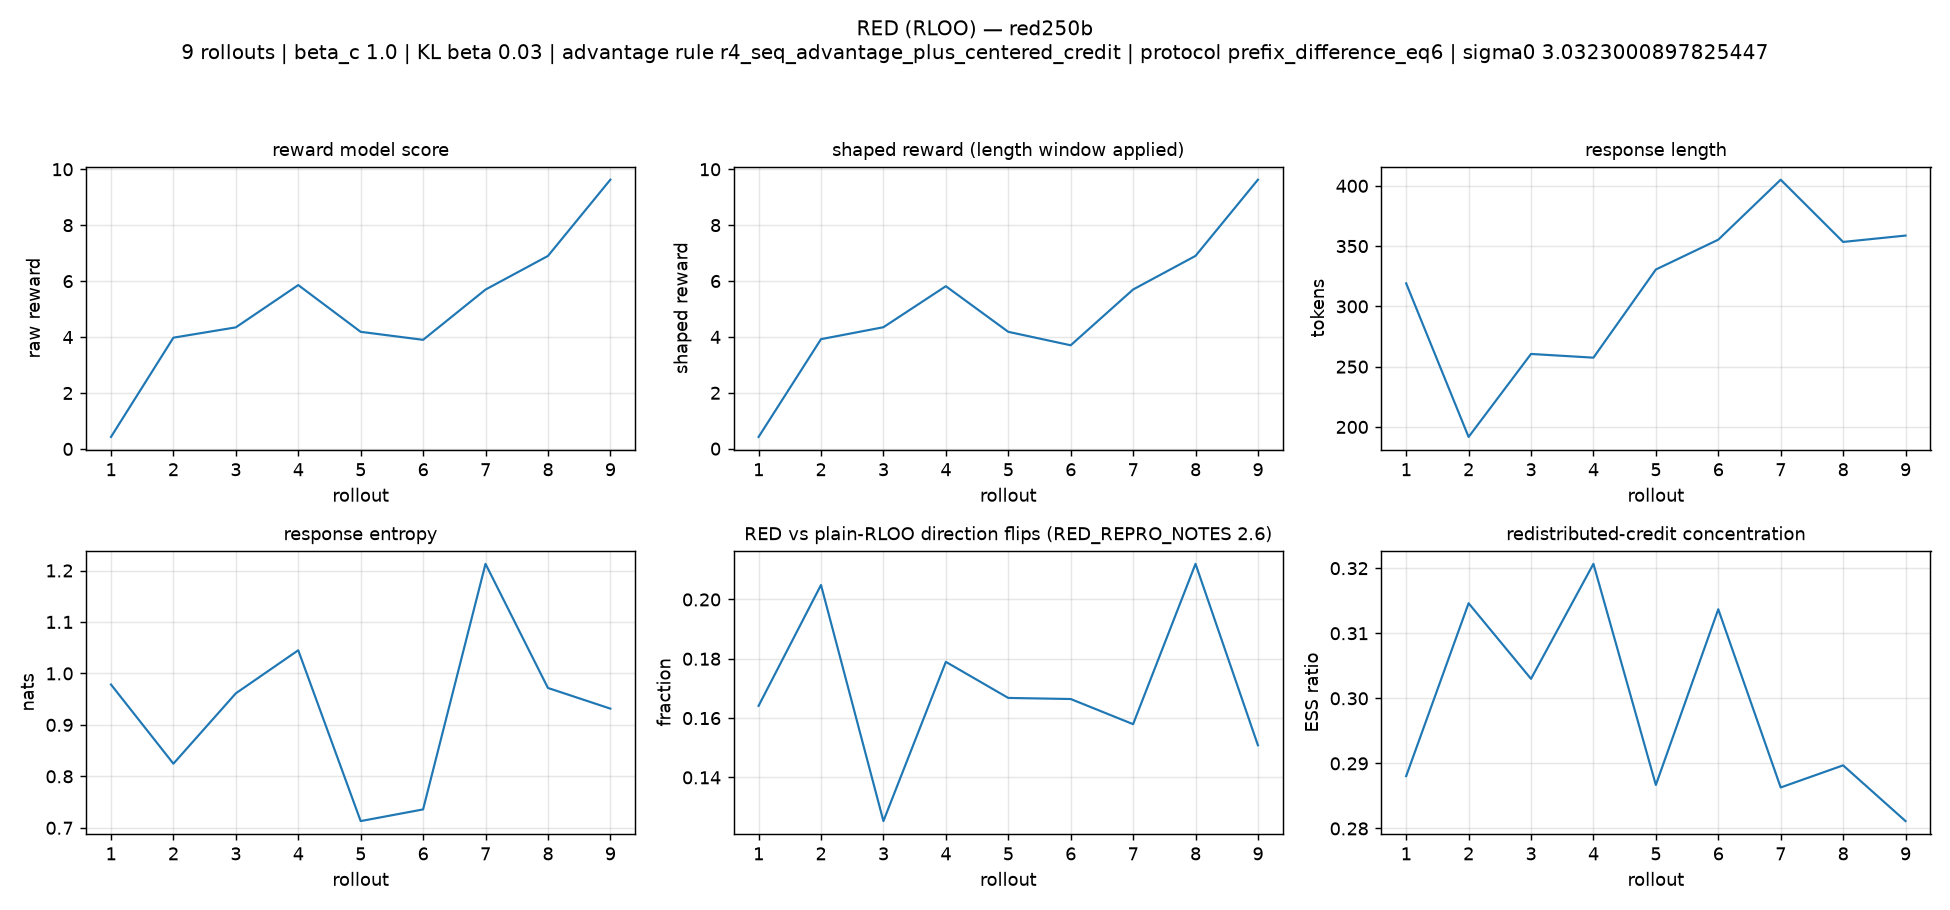
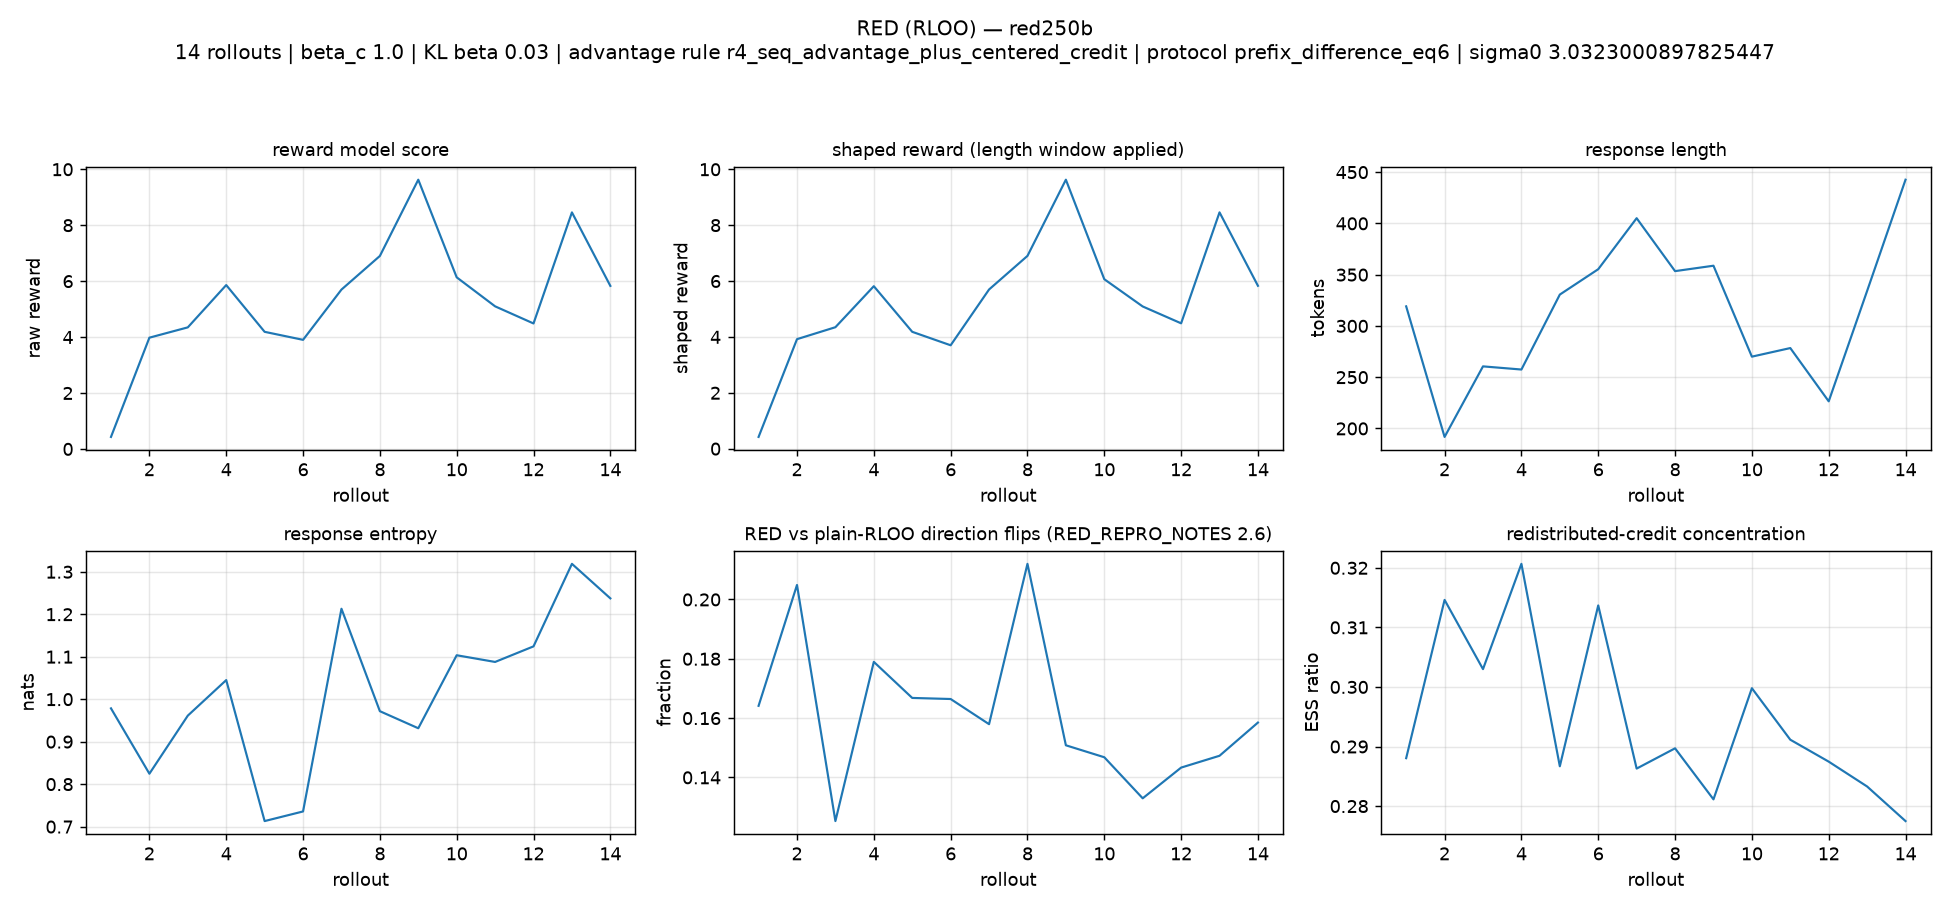
red step 15: raw reward 4.587
loss -0.18598487379495054, grad_norm 0.7734984755516052, mean response tokens 389.0625

diff --git a/p2t/README.md b/p2t/README.md
@@ -78,3 +78,65 @@ reports how large the token term is relative to the sequence advantage.
 See [P2T_REPRO_NOTES.md](P2T_REPRO_NOTES.md) for the equation-to-code map, the
 three places where the paper contradicts itself, and what was deliberately left
 unfixed.
+
+## Evaluation
+
+The four paper metrics for this arm are produced by the **`niuniu` evaluation
+workflow**, which is a separate branch of the VPO-RM repository. It is *not* the
+`runs/*-canonical-20260917` suites checked in here, and the two must not be mixed
+— see "Why not the old suites" below.
+
+- **Where**: branch `niuniu`, pinned revision `c8abb02` ("Support two-GPU credit
+  ablations and publish four-metric evaluation workflow"), checked out at
+  `../niuniu-ref`. Its `docs/evaluation.md` is the authority for the protocol;
+  do not restate it from memory.
+- **What it produces**, one `metric_summary.json` per metric:
+
+  | metric | reported field | protocol |
+  |---|---|---|
+  | RM-Reward | `mean` | frozen 256 UltraFeedback prompts, seed 42, T=1, top_p=1, 2048 tokens; raw Skywork scalar, **no** length or KL penalty |
+  | AlpacaEval | `weighted_win_rate_pct` | 805 prompts, GPT-4.1 judge against GPT-4 Turbo references; **not** official length-controlled |
+  | IFEval | `project_four_metric_mean_pct` | 541 prompts / 834 instructions, generation seeds 42–46, official checker at seed 42 |
+  | Arena-Hard | `arena_hard_style_pct` | 750 questions (500 hard + 250 creative), GPT-4o judge against the `gpt-4o-mini-2024-07-18` reference |
+
+**Why not the old suites.** They are a different protocol, not an earlier version
+of this one: their Arena-Hard run uses **500 hard prompts only**, an
+`o3-mini-2025-01-31` reference and a **GPT-4.1** judge, i.e. three of the four
+inputs differ from the workflow above, and their repeated-seed counts differ too.
+Their centres therefore are not comparable with the numbers this workflow
+produces, and `docs/evaluation.md` §6 warns against presenting new-protocol
+results as a reproduction of them. This arm has **never** been evaluated, so it
+has no old-protocol number to be confused with in the first place.
+
+**Run it** (`../niuniu-ref/LOCAL-DEVIATION-L20.md` records the two environment
+adaptations this host needs, including why `VLLM_USE_FLASHINFER_SAMPLER=0` is
+required — without it the engine cannot start on this box's CUDA 12.2):
+
+```bash
+cd ../niuniu-ref
+source ../baseline/.venv/bin/activate
+export CUDA_VISIBLE_DEVICES=0,1            # two free cards; the RM takes the second
+export VLLM_USE_FLASHINFER_SAMPLER=0
+python scripts/run_benchmarks.py --config configs/evaluation/qwen3-14b-base.json \
+  --stage generate --metric all \
+  --model "$PWD/models/Qwen3-14B-Base" --tokenizer "$PWD/models/Qwen3-14B-Base" \
+  --rm "$PWD/models/Skywork-Reward-V2-Qwen3-8B" \
+  --tag p2t --adapter "$PWD/runs/p2t250/checkpoint-250" \
+  --output "$PWD/runs/eval-qwen3-14b-base"
+# then --stage judge (paid; --budget-cny is per judge invocation, not a total),
+# then --stage score, which is what writes the metric_summary.json files
+```
+
+The run records what it actually did: each metric writes a `manifest_*.json`
+holding the sampling recipe, seed, dataset path and that dataset's SHA256, and
+the output root holds the resolved `benchmark_config.json`. Check those rather
+than trusting a label.
+
+**Arena-Hard's style control is fitted across the candidate set**, so a single
+model summarised alone is distorted. Once the sibling arms have generations too,
+summarise them together:
+
+```bash
+python scripts/summarize_benchmarks.py --config configs/evaluation/qwen3-14b-base.json \
+  --metric arena_hard --output runs/eval-qwen3-14b-base --tags p2t base sft grpo vpo
+```

diff --git a/red/README.md b/red/README.md
@@ -93,3 +93,49 @@ tensor parallelism. See `RED_REPRO_NOTES.md` §7 for the device layout and the
 memory budget, and change `vllm_gpus` / `vllm_tensor_parallel_size` together —
 `tests/red/test_trainer.py` and the trainer's own startup check will reject a
 mismatch.
+
+## Evaluation
+
+Evaluate this arm with the **`niuniu` four-metric workflow**, which is a separate
+branch of the VPO-RM repository at `../niuniu-ref` (pinned revision `c8abb02`).
+Its `docs/evaluation.md` is the authority; do not restate the protocol from
+memory, and do not reach for the `runs/*-canonical-20260917` suites checked in
+here — those are a *different* protocol, not an earlier version of this one.
+**Why**, concretely: their Arena-Hard run uses 500 hard prompts only, an
+`o3-mini-2025-01-31` reference and a GPT-4.1 judge, so three of that metric's four
+inputs differ from the workflow's 750 questions / `gpt-4o-mini-2024-07-18`
+reference / GPT-4o judge, and their repeated-seed counts differ as well.
+`docs/evaluation.md` §6 warns against presenting new-protocol results as a
+reproduction of those centres. No RED arm has ever been evaluated, so there is no
+old-protocol RED number to confuse this with.
+
+The four metrics and their reported fields: RM-Reward `mean` (raw Skywork scalar,
+no length or KL penalty), AlpacaEval `weighted_win_rate_pct` (GPT-4.1 judge
+against GPT-4 Turbo references; not length-controlled), IFEval
+`project_four_metric_mean_pct` (541 prompts / 834 instructions, generation seeds
+42–46), Arena-Hard `arena_hard_style_pct` (750 questions, GPT-4o judge).
+
+```bash
+cd ../niuniu-ref
+source ../baseline/.venv/bin/activate
+export CUDA_VISIBLE_DEVICES=0,1            # two free cards; the RM takes the second
+export VLLM_USE_FLASHINFER_SAMPLER=0       # required on this box, see LOCAL-DEVIATION-L20.md
+python scripts/run_benchmarks.py --config configs/evaluation/qwen3-14b-base.json \
+  --stage generate --metric all \
+  --model "$PWD/models/Qwen3-14B-Base" --tokenizer "$PWD/models/Qwen3-14B-Base" \
+  --rm "$PWD/models/Skywork-Reward-V2-Qwen3-8B" \
+  --tag red --adapter "$PWD/runs/red250b/checkpoint-250" \
+  --output "$PWD/runs/eval-qwen3-14b-base"
+# then --stage judge (paid; --budget-cny is per judge invocation), then --stage score
+```
+
+`--adapter` needs the final checkpoint, so this waits on `red250b` reaching step
+250. **Record which rule the checkpoint ran under**: `run_manifest.json` in the
+checkpoint directory stamps `red_advantage_rule` and `red_alpha`, and the credit
+rule changed materially between `red250` (R3, retired) and `red250b` (R4) — a
+number without that stamp does not say which estimator produced it. See
+`RED_REPRO_NOTES.md` §2.2.
+
+Arena-Hard's style control is fitted across the candidate set, so summarise the
+arms together once they all have generations: `summarize_benchmarks.py --metric
+arena_hard --output runs/eval-qwen3-14b-base --tags red base sft grpo vpo p2t`.
